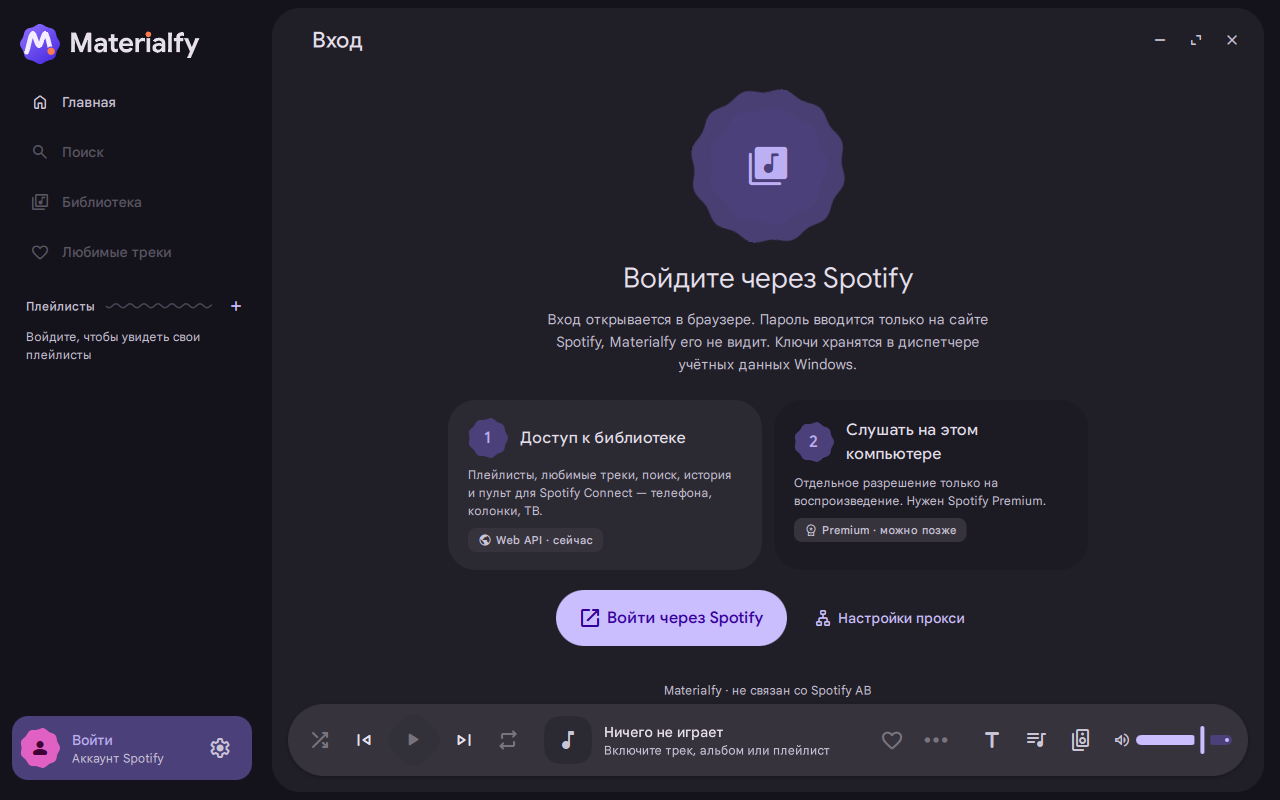
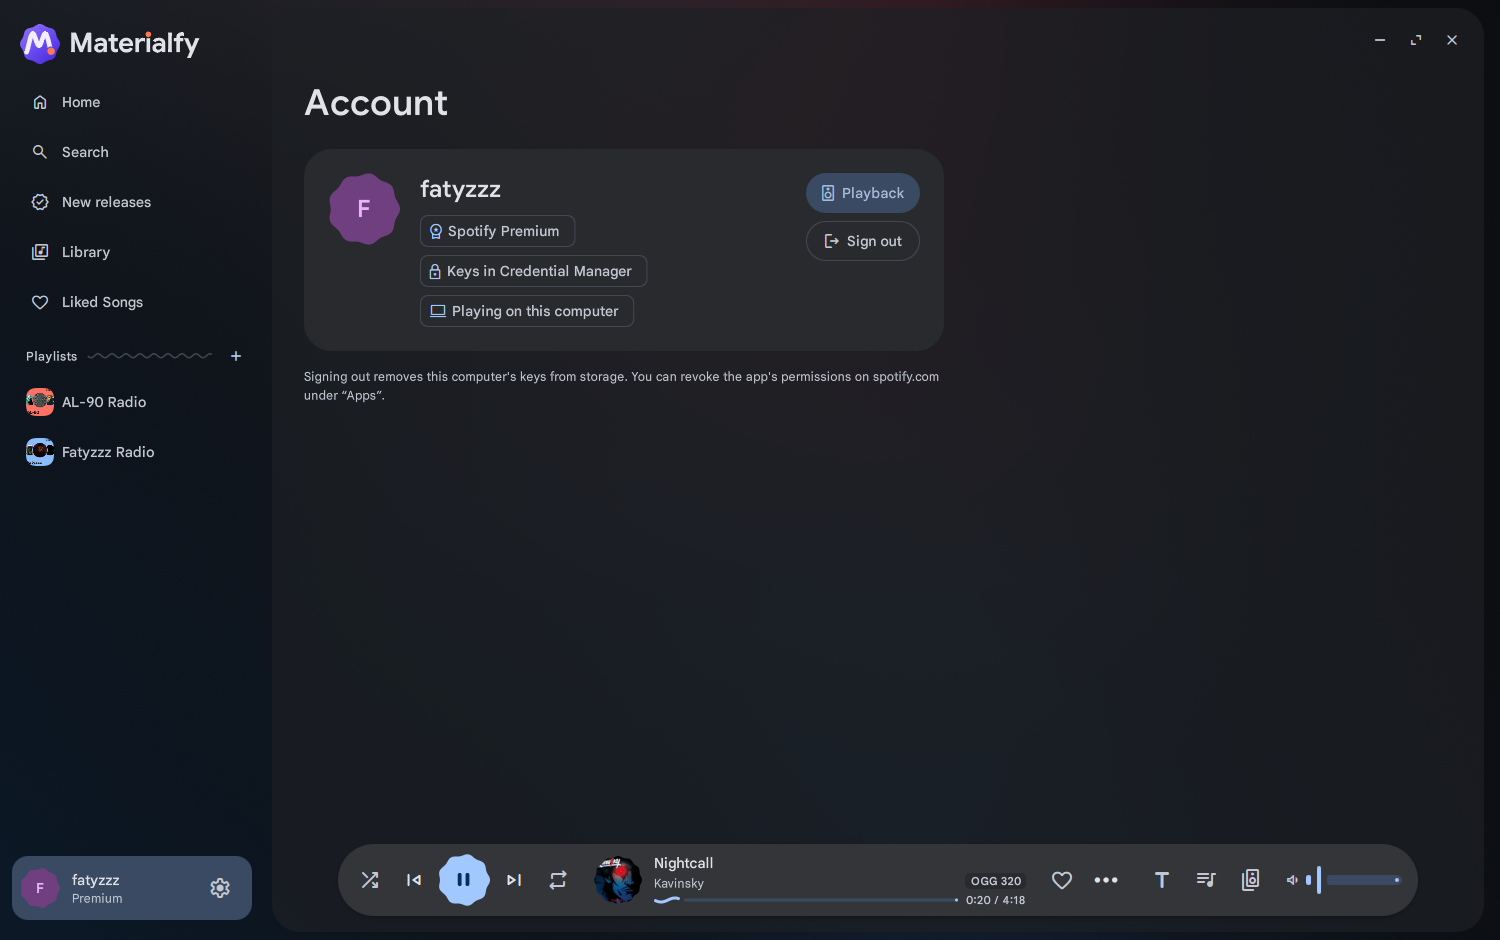
New README screenshots with music playing, in English and Russian
Screenshots are taken from a Premium session with a track playing, so the
colours follow the cover: Home in both themes, Now Playing with synced lyrics,
the artist page, New releases, Settings, account and playback pages, compact
layouts and the mini player. README.ru.md uses the Russian set in
docs/screenshots/materialfy/ru. The CI status badge is in both READMEs.

I18n.any() shows text Rust produced (and cached) in either language in the
current one; release badges and album types use it.

diff --git a/src/materialfy/qml/Md3/I18n.qml b/src/materialfy/qml/Md3/I18n.qml
@@ -42,6 +42,25 @@ QtObject {
         return arguments.length > 1 ? format(pattern, Array.prototype.slice.call(arguments, 1)) : pattern
     }
 
+    // Russian → English for plain (non-plural) entries, built once.
+    readonly property var _en: {
+        const back = {}
+        for (const k in _ru) {
+            const v = _ru[k]
+            if (typeof v === "string" && k.indexOf("|") < 0 && !(v in back))
+                back[v] = k
+        }
+        return back
+    }
+
+    // Text that Rust produced (and may have cached) in either language, shown in the current one:
+    // a Russian dictionary value maps back to its English source first, then translates as usual.
+    function any(text) {
+        const s = String(text ?? "")
+        const en = typeof _en[s] === "string" ? _en[s] : s
+        return t(en)
+    }
+
     // Russian plural category: 0 one (1, 21), 1 few (2–4, 22–24), 2 many (0, 5–20, 11–14, 25…)
     function _ruIndex(count) {
         const n = Math.abs(Math.trunc(Number(count) || 0))

diff --git a/src/materialfy/qml/app/pages/SearchPage.qml b/src/materialfy/qml/app/pages/SearchPage.qml
@@ -147,7 +147,7 @@ Page {
                     Layout.fillWidth: true
                     spacing: 4
                     Label {
-                        text: (({ track: I18n.t("Track"), album: bestCard.item.kind || I18n.t("Album"), artist: I18n.t("Artist"), playlist: I18n.t("Playlist"), show: I18n.t("Podcast") })[bestCard.best.type] ?? "").toUpperCase()
+                        text: (({ track: I18n.t("Track"), album: bestCard.item.kind ? I18n.any(bestCard.item.kind) : I18n.t("Album"), artist: I18n.t("Artist"), playlist: I18n.t("Playlist"), show: I18n.t("Podcast") })[bestCard.best.type] ?? "").toUpperCase()
                         type: "labelLarge"
                         color: Theme.primary
                         font.letterSpacing: 1.2

diff --git a/src/materialfy/qml/app/pages/ReleasesPage.qml b/src/materialfy/qml/app/pages/ReleasesPage.qml
@@ -258,7 +258,7 @@ Page {
                 cover: modelData.cover ?? ""
                 title: modelData.title ?? ""
                 subtitle: [modelData.artists ?? "", modelData.dateLabel ?? ""].filter(x => x).join(" · ")
-                badge: modelData.group === "single" ? (modelData.kind ?? "").toUpperCase() : ""
+                badge: modelData.group === "single" ? I18n.any(modelData.kind).toUpperCase() : ""
                 explicit: modelData.explicit === true
                 showPlay: true
                 playing: Player.playing && (modelData.uri ?? "") !== "" && Player.contextUri === modelData.uri

diff --git a/src/materialfy/qml/app/pages/AlbumPage.qml b/src/materialfy/qml/app/pages/AlbumPage.qml
@@ -14,7 +14,7 @@ TrackListPage {
     readonly property bool saved: Library.savedRevision >= 0 && (info.uri ?? "") !== "" ? Library.isSaved(info.uri) : info.saved === true
 
     title: info.title ? info.title + (info.version ? " (" + info.version + ")" : "") : ""
-    overline: (info.kind || I18n.t("Album")).toUpperCase()
+    overline: (info.kind ? I18n.any(info.kind) : I18n.t("Album")).toUpperCase()
     heroImage: info.coverLarge || info.cover || ""
     heroIcon: "album"
     heroArtistRefs: info.artistRefs ?? []

diff --git a/src/materialfy/qml/app/pages/ArtistPage.qml b/src/materialfy/qml/app/pages/ArtistPage.qml
@@ -274,7 +274,7 @@ Page {
                 visible: page.allAlbums || index < tilesPerRow.value * 2
                 cover: model.cover
                 title: model.title
-                subtitle: [model.year || "", model.kind].filter(x => x).join(" · ")
+                subtitle: [model.year || "", model.kind ? I18n.any(model.kind) : ""].filter(x => x).join(" · ")
                 explicit: model.explicit
                 onClicked: Catalog.openAlbum(model.albumId)
             }

diff --git a/README.ru.md b/README.ru.md
@@ -7,7 +7,7 @@
   <img src="docs/brand/wordmark.svg" width="420" alt="Materialfy">
 </picture>
 
-<!-- CI badge -->
+[![Build](https://github.com/fatyzzz/materialfy/actions/workflows/build.yml/badge.svg?branch=main)](https://github.com/fatyzzz/materialfy/actions/workflows/build.yml)
 
 Настольный клиент Spotify на Rust и Qt Quick, интерфейс в стиле Material 3 Expressive.<br>
 Windows и Linux, macOS в экспериментальном режиме.
@@ -35,27 +35,32 @@ Materialfy ставят вместо официального настольно
 
 ## Скриншоты
 
-На снимках программа запущена с ключом `--offline`, без входа в аккаунт, поэтому на главной и в списке
-плейлистов вместо музыки стоит приглашение войти.
+Сняты с аккаунтом Premium во время воспроизведения; цвета берутся из обложки текущего трека.
 
 <table>
   <tr>
-    <td width="50%"><img src="docs/screenshots/materialfy/home-dark.png" alt="Главная, тёмная тема"></td>
-    <td width="50%"><img src="docs/screenshots/materialfy/home-light.png" alt="Главная, светлая тема"></td>
+    <td width="50%"><img src="docs/screenshots/materialfy/ru/home-dark.png" alt="Главная, тёмная тема"></td>
+    <td width="50%"><img src="docs/screenshots/materialfy/ru/home-light.png" alt="Главная, светлая тема"></td>
   </tr>
   <tr>
-    <td><img src="docs/screenshots/materialfy/account.png" alt="Вход в аккаунт Spotify"></td>
-    <td><img src="docs/screenshots/materialfy/playback.png" alt="Настройка воспроизведения на этом компьютере"></td>
+    <td><img src="docs/screenshots/materialfy/ru/now-playing.png" alt="«Сейчас играет» с синхронным текстом"></td>
+    <td><img src="docs/screenshots/materialfy/ru/artist.png" alt="Страница исполнителя"></td>
   </tr>
   <tr>
-    <td><img src="docs/screenshots/materialfy/settings.png" alt="Настройки"></td>
-    <td><img src="docs/screenshots/materialfy/compact-900x640.png" alt="Окно 900×640 с узкой боковой панелью"></td>
+    <td><img src="docs/screenshots/materialfy/ru/releases.png" alt="Новинки"></td>
+    <td><img src="docs/screenshots/materialfy/ru/settings.png" alt="Настройки"></td>
   </tr>
   <tr>
-    <td><img src="docs/screenshots/materialfy/compact-640x720.png" alt="Компактная раскладка 640×720"></td>
-    <td valign="top"><img src="docs/screenshots/materialfy/mini-300x120.png" alt="Мини-плеер 300×120"><br><br>
-      <sub>Слева компактная раскладка для узкого окна. Выше мини-плеер: в него окно переходит, если сделать его
-      уже 480 или ниже 400 пикселей.</sub></td>
+    <td><img src="docs/screenshots/materialfy/ru/account.png" alt="Аккаунт Spotify"></td>
+    <td><img src="docs/screenshots/materialfy/ru/playback.png" alt="Воспроизведение на этом компьютере"></td>
+  </tr>
+  <tr>
+    <td><img src="docs/screenshots/materialfy/ru/compact-900x640.png" alt="Окно 900×640 с узкой боковой панелью"></td>
+    <td><img src="docs/screenshots/materialfy/ru/compact-640x720.png" alt="Компактная раскладка 640×720"></td>
+  </tr>
+  <tr>
+    <td valign="top"><img src="docs/screenshots/materialfy/ru/mini-300x120.png" alt="Мини-плеер 300×120"></td>
+    <td valign="top"><sub>Мини-плеер: в него окно переходит, если сделать его уже 480 или ниже 400 пикселей.</sub></td>
   </tr>
 </table>
 

diff --git a/README.md b/README.md
@@ -7,7 +7,7 @@
   <img src="docs/brand/wordmark.svg" width="420" alt="Materialfy">
 </picture>
 
-<!-- CI badge -->
+[![Build](https://github.com/fatyzzz/materialfy/actions/workflows/build.yml/badge.svg?branch=main)](https://github.com/fatyzzz/materialfy/actions/workflows/build.yml)
 
 Desktop Spotify client built with Rust and Qt Quick, with a Material 3 Expressive interface.<br>
 Windows and Linux; macOS is experimental.
@@ -36,8 +36,7 @@ The project is assembled from two MIT-licensed projects: the Spotify side comes 
 
 ## Screenshots
 
-The screenshots were taken with the `--offline` flag, without signing in, so the home page and the playlist list
-show a sign-in prompt instead of music. They show the Russian interface.
+Taken with a Premium account and music playing; the colours follow the cover of the current track.
 
 <table>
   <tr>
@@ -45,18 +44,25 @@ show a sign-in prompt instead of music. They show the Russian interface.
     <td width="50%"><img src="docs/screenshots/materialfy/home-light.png" alt="Home, light theme"></td>
   </tr>
   <tr>
-    <td><img src="docs/screenshots/materialfy/account.png" alt="Signing in to a Spotify account"></td>
-    <td><img src="docs/screenshots/materialfy/playback.png" alt="Setting up playback on this computer"></td>
+    <td><img src="docs/screenshots/materialfy/now-playing.png" alt="Now Playing with synced lyrics"></td>
+    <td><img src="docs/screenshots/materialfy/artist.png" alt="Artist page"></td>
   </tr>
   <tr>
+    <td><img src="docs/screenshots/materialfy/releases.png" alt="New releases"></td>
     <td><img src="docs/screenshots/materialfy/settings.png" alt="Settings"></td>
-    <td><img src="docs/screenshots/materialfy/compact-900x640.png" alt="900×640 window with a narrow sidebar"></td>
   </tr>
   <tr>
+    <td><img src="docs/screenshots/materialfy/account.png" alt="Spotify account"></td>
+    <td><img src="docs/screenshots/materialfy/playback.png" alt="Playback on this computer"></td>
+  </tr>
+  <tr>
+    <td><img src="docs/screenshots/materialfy/compact-900x640.png" alt="900×640 window with a narrow sidebar"></td>
     <td><img src="docs/screenshots/materialfy/compact-640x720.png" alt="Compact layout, 640×720"></td>
-    <td valign="top"><img src="docs/screenshots/materialfy/mini-300x120.png" alt="Mini player, 300×120"><br><br>
-      <sub>Left: the compact layout for a narrow window. Above: the mini player, which the window switches to when
-      it is narrower than 480 or shorter than 400 pixels.</sub></td>
+  </tr>
+  <tr>
+    <td valign="top"><img src="docs/screenshots/materialfy/mini-300x120.png" alt="Mini player, 300×120"></td>
+    <td valign="top"><sub>The mini player: the window switches to it when it is narrower than 480 or shorter than
+      400 pixels.</sub></td>
   </tr>
 </table>
 
